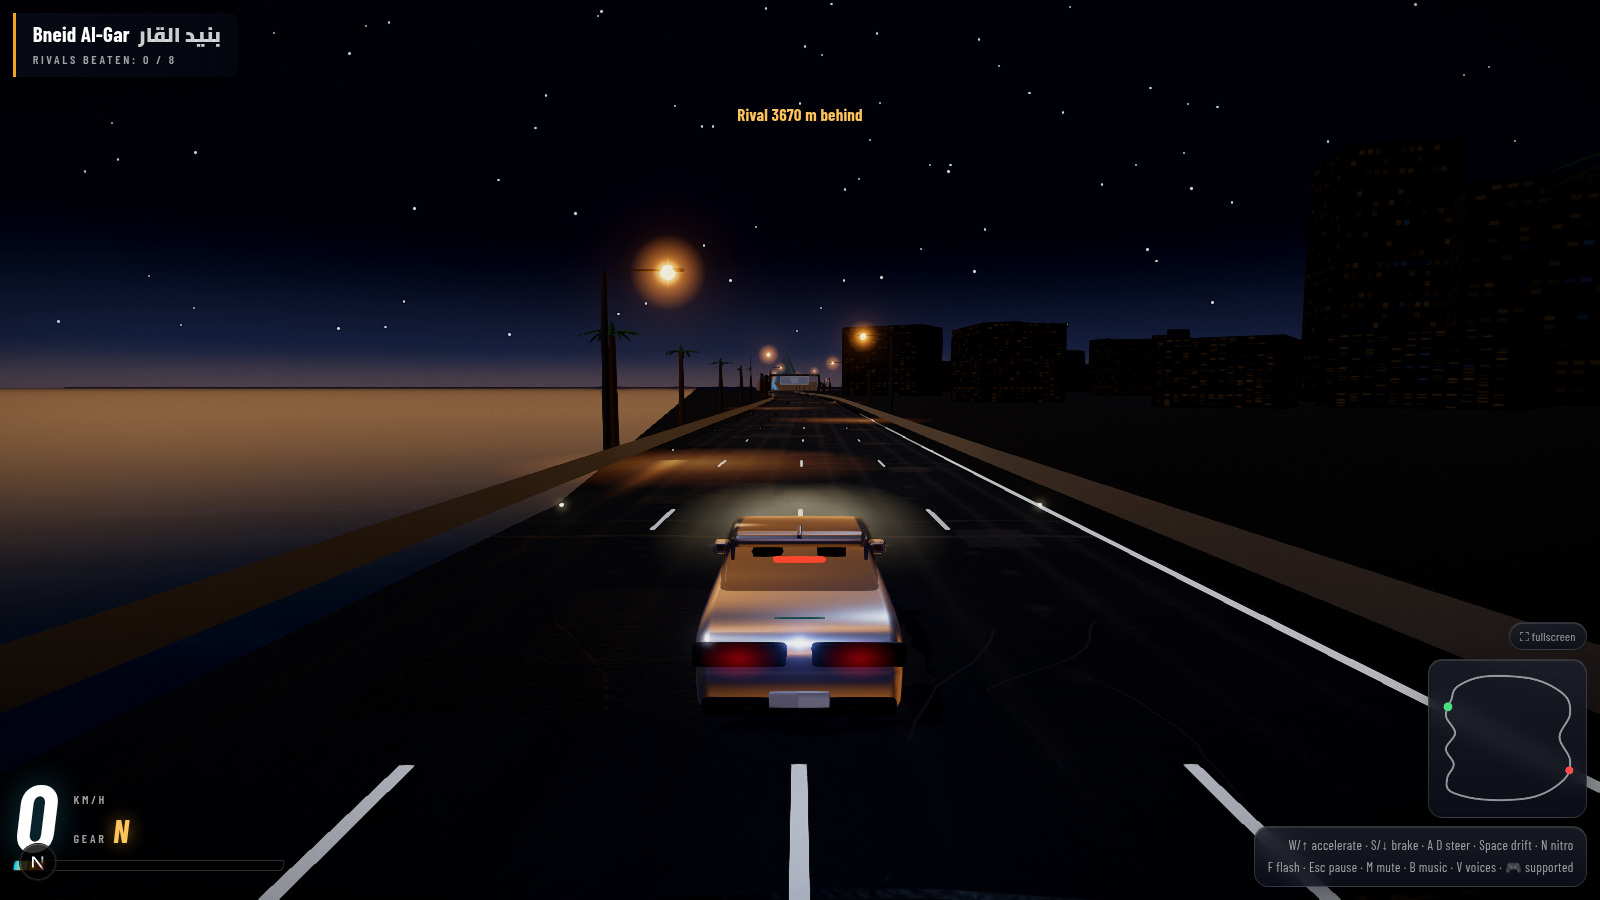
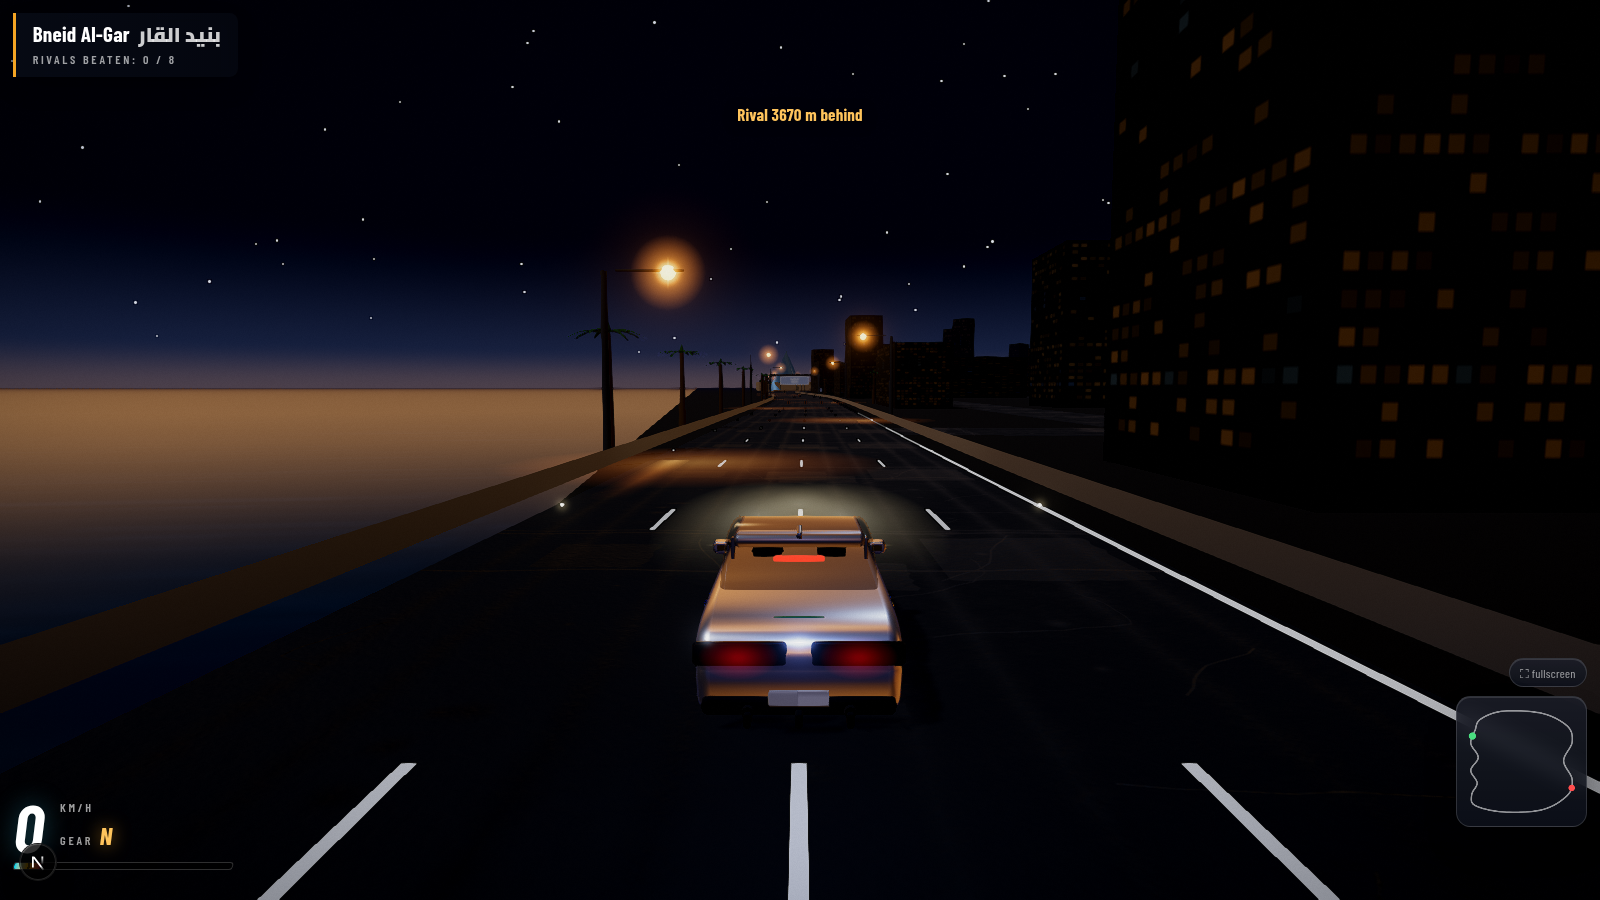
Bring the HUD's scale down
Measured on a 1600x900 frame rather than eyeballed. The speed numeral
was 88 px — one digit occupying a tenth of the frame's height — and the
bottom-right cluster was 360x266, 6.65% of the picture, permanently.

  speed numeral   88 px  ->  62 px
  centre toast    36 px  ->  30 px
  speed cluster   271x92 ->  220x72
  bottom-right    360x266 (6.65%) -> 290x229 (4.62%)

The gear letter and the tach bar came down with the numeral, or the
cluster stops reading as one instrument and starts reading as three
things that happen to be near each other.

Safe to shrink the default because the Large HUD accessibility setting
already exists and scales the readouts 1.22x for anyone who needs them
bigger. Making the default smaller and leaving that knob in place is the
right way round; the reverse would have been shipping one size for
everybody.

THE BIGGEST BOX WAS ONBOARDING

The widest thing in that corner was the keyboard reference — two lines
listing every key in the game, sitting there for the entire session. It
is something you read once. It now retires twelve seconds into the first
race and the pause screen carries it from then on, which is where you
would go looking for it anyway.

Written as a CSS animation delay first, which was wrong: the HUD is
mounted the whole time and merely faded, so a twelve-second delay starts
at page load and runs out while the player is still reading the menu.
The probe caught it — the legend was already gone three seconds into the
[…]

diff --git a/src/app/race/RaceClient.tsx b/src/app/race/RaceClient.tsx
@@ -827,6 +827,15 @@ export default function RaceClient() {
   const menuItemsRef = useRef(menuItems);
   menuItemsRef.current = menuItems;
 
+  // The corner's keyboard reference retires twelve seconds into the
+  // first race, not twelve seconds after the page loaded.
+  const [hintDone, setHintDone] = useState(false);
+  useEffect(() => {
+    if (phase !== "playing") return;
+    const t = setTimeout(() => setHintDone(true), 12000);
+    return () => clearTimeout(t);
+  }, [phase]);
+
   const lvl = levelInfo(career?.xp ?? 0);
   const rank = rankTitle(lvl.level);
 
@@ -956,7 +965,7 @@ export default function RaceClient() {
           <div className="flex items-end gap-3.5">
             <span
               ref={speedRef}
-              className="grn-display block text-[5.5rem] italic leading-[0.78] tabular-nums text-white [text-shadow:0_0_28px_rgba(56,201,238,0.35),0_4px_18px_rgba(0,0,0,0.95)]"
+              className="grn-display block text-[3.9rem] italic leading-[0.8] tabular-nums text-white [text-shadow:0_0_24px_rgba(56,201,238,0.35),0_4px_16px_rgba(0,0,0,0.95)]"
             >
               0
             </span>
@@ -966,14 +975,14 @@ export default function RaceClient() {
                 <span className="grn-label text-[0.6rem]">Gear</span>
                 <span
                   ref={gearRef}
-                  className="grn-display text-3xl italic leading-none text-sodium-400 [text-shadow:0_0_16px_rgba(245,165,36,0.6)]"
+                  className="grn-display text-2xl italic leading-none text-sodium-400 [text-shadow:0_0_16px_rgba(245,165,36,0.6)]"
                 >
                   N
                 </span>
               </div>
             </div>
           </div>
-          <div className="grn-meter mt-2 h-2.5 w-64 -skew-x-12">
+          <div className="grn-meter mt-2 h-2 w-52 -skew-x-12">
             <div
               ref={rpmRef}
               className="h-full bg-gradient-to-r from-cyan-400 via-amber-400 to-red-500"
@@ -982,7 +991,7 @@ export default function RaceClient() {
           </div>
           <div ref={boostWrapRef} className="mt-1 items-center gap-2" style={{ display: "none" }}>
             <span className="grn-label w-11 text-[0.58rem] text-gulf-300">Boost</span>
-            <div className="grn-meter h-2 w-52 -skew-x-12">
+            <div className="grn-meter h-1.5 w-44 -skew-x-12">
               <div
                 ref={boostRef}
                 className="h-full bg-gradient-to-r from-gulf-500 to-gulf-300 shadow-[0_0_12px_rgba(56,201,238,0.8)]"
@@ -992,7 +1001,7 @@ export default function RaceClient() {
           </div>
           <div ref={nosWrapRef} className="mt-1 items-center gap-2" style={{ display: "none" }}>
             <span className="grn-label w-11 text-[0.58rem] text-indigo-300">NOS</span>
-            <div className="grn-meter h-2 w-52 -skew-x-12">
+            <div className="grn-meter h-1.5 w-44 -skew-x-12">
               <div
                 ref={nosRef}
                 className="h-full bg-gradient-to-r from-indigo-500 to-sky-300 shadow-[0_0_12px_rgba(129,140,248,0.8)]"
@@ -1020,15 +1029,15 @@ export default function RaceClient() {
             ref={mapRef}
             width={320}
             height={320}
-            className="grn-panel size-[150px] p-1"
+            className="grn-panel size-[124px] p-1"
           />
           <div
-            className={`grn-panel px-3 py-2 text-right font-display text-[0.78rem] leading-5 tracking-wide text-white/60 ${
+            className={`grn-panel hud-hint px-3 py-2 text-right font-display text-[0.72rem] leading-[1.35] tracking-wide text-white/55 ${
               isTouch ? "hidden" : ""
-            }`}
+            } ${hintDone ? "hud-hint-gone" : ""}`}
           >
             W/↑ accelerate · S/↓ brake · A D steer · Space drift · N nitro
-            <br />F flash · Esc pause · M mute · B music · V voices · gamepad supported
+            <br />F flash · Esc pause · M mute · B music · V voices
           </div>
         </div>
       </div>
@@ -1403,7 +1412,7 @@ export default function RaceClient() {
       {/* Center message toast */}
       {message && phase === "playing" && (
         <div className="pointer-events-none absolute left-1/2 top-1/3 w-[min(640px,92vw)] -translate-x-1/2 text-center">
-          <div className="grn-display text-3xl leading-tight [text-shadow:0_4px_20px_rgba(0,0,0,0.95)] sm:text-4xl">
+          <div className="grn-display text-xl leading-tight [text-shadow:0_4px_20px_rgba(0,0,0,0.95)] sm:text-3xl">
             {message.title}
           </div>
           {message.sub && (
@@ -2076,8 +2085,16 @@ export default function RaceClient() {
         >
           <div className="grn-dialog screen-in w-[min(400px,92vw)] p-6 text-center">
             <div className="grn-label text-[0.6rem] tracking-[0.4em] text-gulf-400">Paused</div>
-            <div className="grn-display mt-1 text-4xl italic">
+            <div className="grn-display mt-1 text-3xl italic">
               PIT STOP <span className="grn-ar not-italic text-white/60" lang="ar">وقفة</span>
+            </div>
+            {/* The controls live here now. The corner of the screen used
+                to carry them for the whole session, which made the
+                busiest box on the HUD a thing you read once. */}
+            <div className="mt-4 font-display text-[0.72rem] leading-[1.5] tracking-wide text-white/45">
+              W/↑ accelerate · S/↓ brake · A D steer
+              <br />Space drift · N nitro · F flash
+              <br />M mute · B music · V voices · gamepad supported
             </div>
             <div className="mt-6 flex flex-col gap-2.5">
               <button

diff --git a/src/app/globals.css b/src/app/globals.css
@@ -422,6 +422,29 @@ html[data-cvd="1"] .rival-ink {
   color: var(--color-rival-1) !important;
 }
 
+/* The keyboard reference in the corner is onboarding, not an
+   instrument: you read it once. It was the biggest box on the HUD —
+   360 px wide, the widest thing in the bottom-right cluster — and it sat
+   there for the whole session. It fades out after twelve seconds and the
+   pause screen carries it from then on.
+
+   The countdown is driven from React rather than an animation delay,
+   because the HUD is mounted the whole time and only faded — a CSS delay
+   starts at page load and runs out while the player is still reading the
+   menu, which is exactly what the first version did.
+
+   Reduced motion gets the same result without the dissolve. */
+.hud-hint {
+  transition: opacity 900ms ease, visibility 0s linear 900ms;
+}
+.hud-hint-gone {
+  opacity: 0;
+  visibility: hidden;
+}
+@media (prefers-reduced-motion: reduce) {
+  .hud-hint { transition-duration: 1ms; }
+}
+
 /* Large HUD: one knob that scales the readouts without touching layout. */
 html[data-large-hud="1"] {
   --hud-scale: 1.22;
